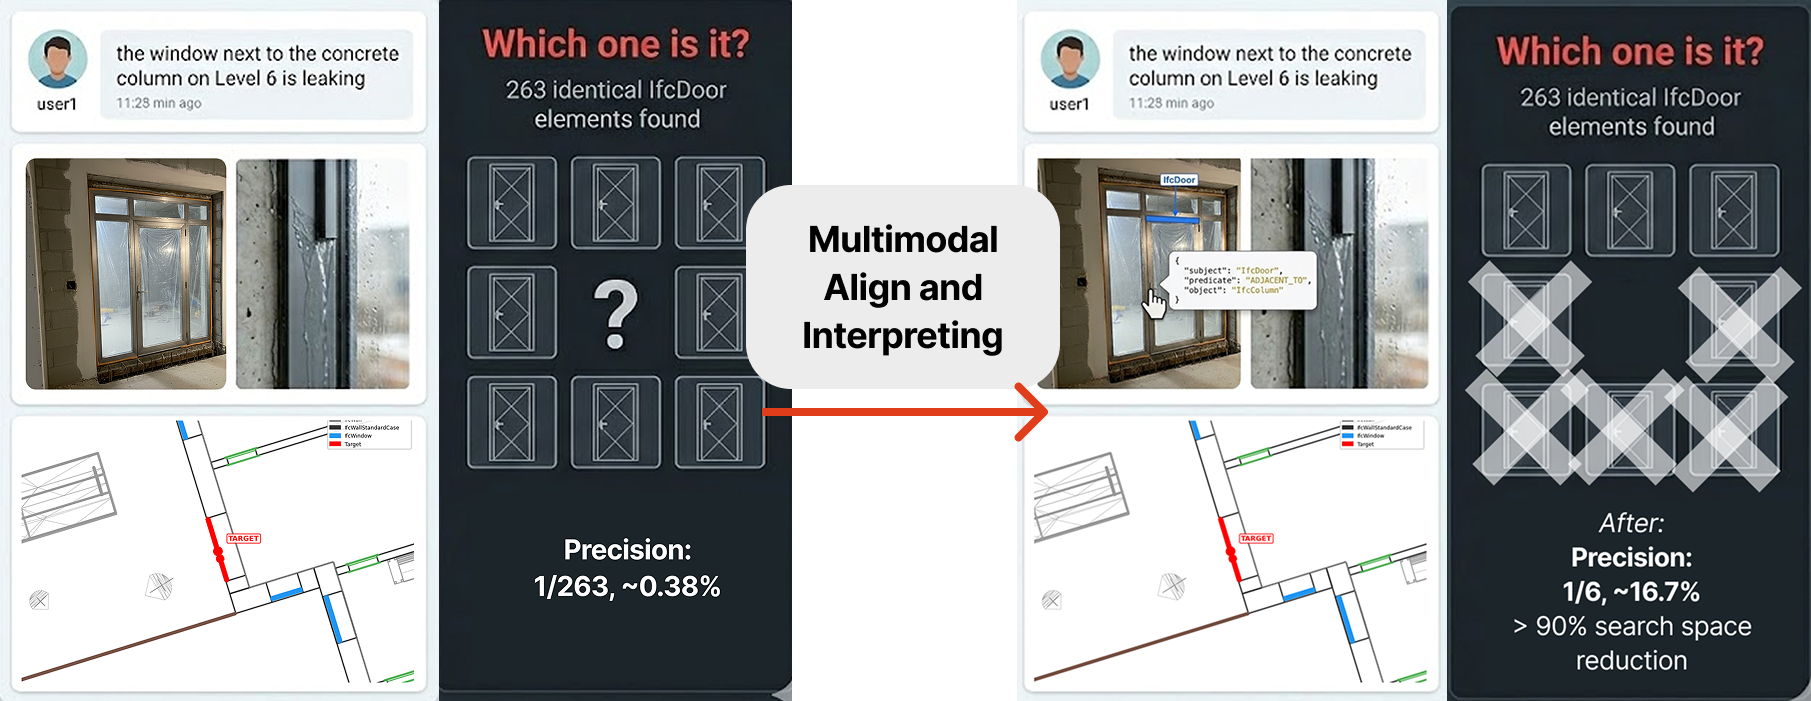
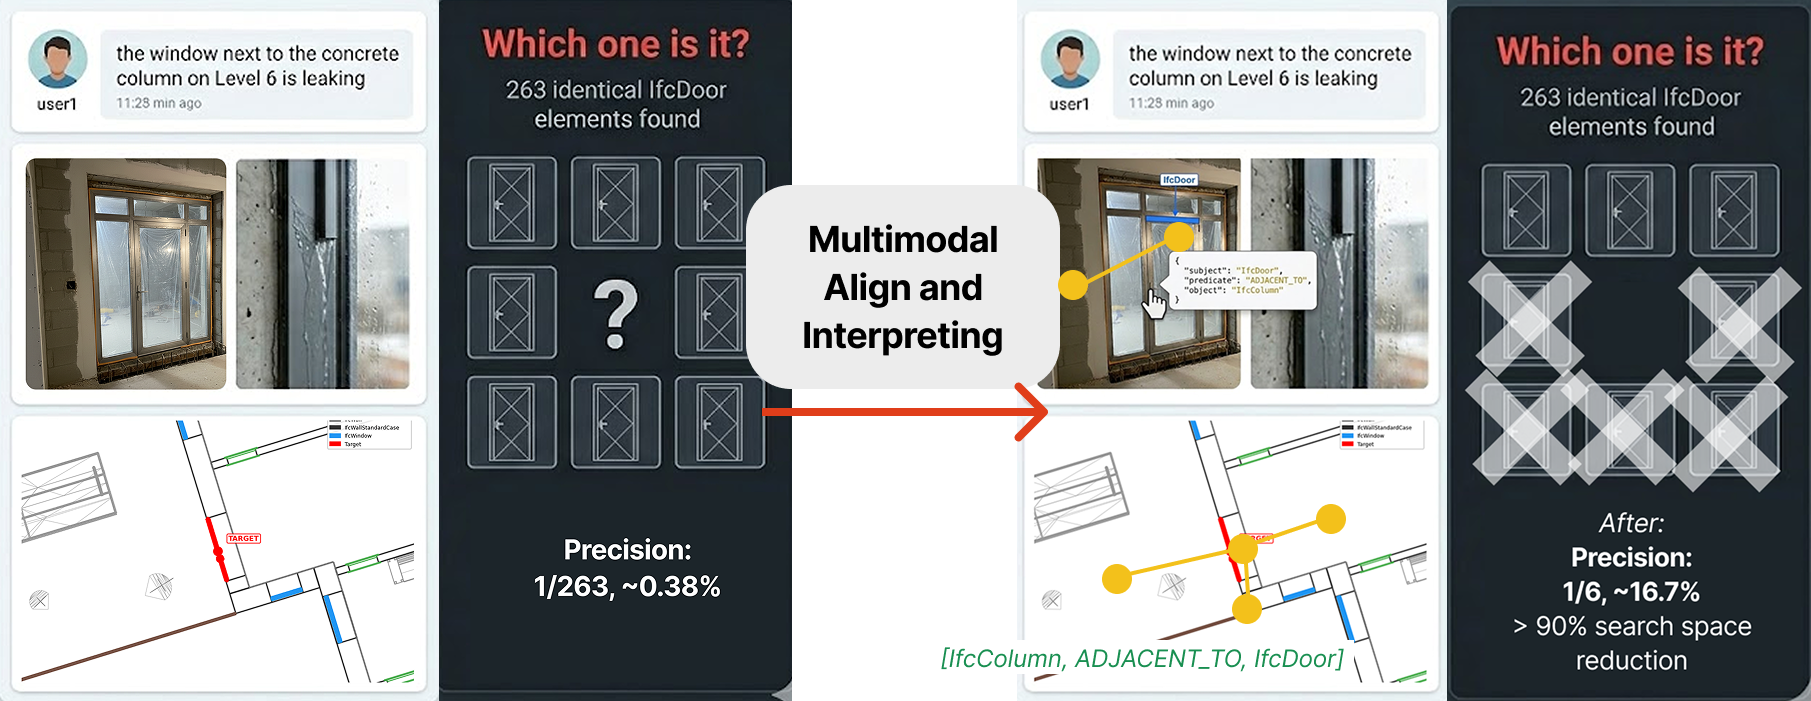
update img

diff --git a/ai_aec_interpreter.html b/ai_aec_interpreter.html
@@ -324,36 +324,39 @@
 
         <img src="assets/img/ai_aec/screenshots/demo_049.gif" alt="Demo Overview" class="demo-image">
         <p><em>Live demo: left panel shows case selector + evaluation result. Center shows chat + input modalities. Right shows the 3D BIM viewer — green element = correct prediction, red = wrong.</em></p>
-        <img src="assets/img/ai_aec/screenshots/b4_after.png" alt="Demo Overview 2" style="max-width: 400px;" align="center">
+
         <h2>1. Problem</h2>
-        <p>Construction site inspectors send messages like <em>"look at this door — hinge issue"</em> with a photo. A building model might have <strong>263 windows and 126 doors</strong> — all structurally identical. Which one is it?</p>
-        <img src="assets/img/ai_aec/screenshots/problem.png" alt="Problem Statement">
-        <p><em>With AI Interpreters help:</em></p>
+        <div class="image-pair">
+            <div class="image-card">
+                <img src="assets/img/ai_aec/screenshots/b4_after.png" alt="Site Communication Challenge">
+            </div>
+            <div class="image-card">
+                <p><strong>The Challenge:</strong></p>
+                <p>Construction site inspectors send informal messages like <em>"look at this door — hinge issue"</em> with a photo. But a building model might contain <strong>263 windows and 126 doors</strong> — all structurally identical. Which one is it?</p>
 
-        <table>
-            <thead>
-                <tr>
-                    <th>Input</th>
-                    <th>Candidates</th>
-                    <th>Precision</th>
-                </tr>
-            </thead>
-            <tbody>
-                <tr>
-                    <td>Text only: <code>"Which window?"</code></td>
-                    <td><strong>263</strong></td>
-                    <td>0.38%</td>
-                </tr>
-                <tr>
-                    <td>+ floor, task status, site photos (4D context)</td>
-                    <td><strong>3</strong></td>
-                    <td>33.33%</td>
-                </tr>
-            </tbody>
-        </table>
+                <p><strong>Why This Matters:</strong></p>
+                <ul>
+                    <li><strong>Traceability gap:</strong> Unstructured site data (photos, messages) can't be automatically linked to the BIM model</li>
+                    <li><strong>Manual overhead:</strong> Construction managers spend hours manually matching reports to elements</li>
+                    <li><strong>Data loss:</strong> Critical inspection findings get buried in chat threads and email attachments</li>
+                </ul>
 
-        <p>→ <strong>98.9% search space reduction</strong> by fusing multimodal context with structured retrieval.</p>
-        <p>At a higher level, the challenge is <strong>Multimodal Grounding</strong> and <strong>Schema Alignment</strong>: mapping informal, unstructured data (natural language, images, plans) to structured schema (IFC) with <strong>zero hallucination</strong>.</p>
+                <p><strong>The Vision:</strong> An AI interpreter that bridges informal human communication and structured BIM data — enabling automated report generation, progress tracking, and QA/QC workflows.</p>
+            </div>
+        </div>
+
+        <p>From a practical standpoint, I am addressing the challenge of <strong>identifying and tracking unique elements within large Digital Twin models</strong> to support construction progress monitoring. For example, distinguishing a specific window from dozens of visually identical ones across multiple floors, while leveraging unstructured site data — such as on-site images and chat logs — to improve traceability and synchronize real-world conditions with their digital counterparts.</p>
+
+        <img src="assets/img/ai_aec/screenshots/problem.png" alt="Problem Statement" class="demo-image">
+
+        <p><strong>The impact of multimodal context:</strong></p>
+        <ul>
+            <li><strong>Text-only input</strong> (<em>"Which window?"</em>) → <strong>263 candidates</strong>, 0.38% precision (random guess)</li>
+            <li><strong>With multimodal context</strong> (floor number, task status, site photos, 4D schedule) → <strong>3 candidates</strong>, 33.33% precision</li>
+            <li><strong>Result:</strong> 98.9% search space reduction by fusing multimodal context with structured retrieval</li>
+        </ul>
+
+        <p>At a higher level, the underlying challenge is <strong>multimodal grounding</strong> and <strong>schema alignment</strong>: mapping informal, unstructured site evidence (chat logs, on-site images, floorplan drawings) to structured project schemas such as IFC, with minimal hallucination or information loss.</p>
 
         <p><strong>Core research questions:</strong> How can AI act as an interpreter layer to reliably align unstructured site evidence with project data in AEC workflows, with minimal information loss?</p>
 
